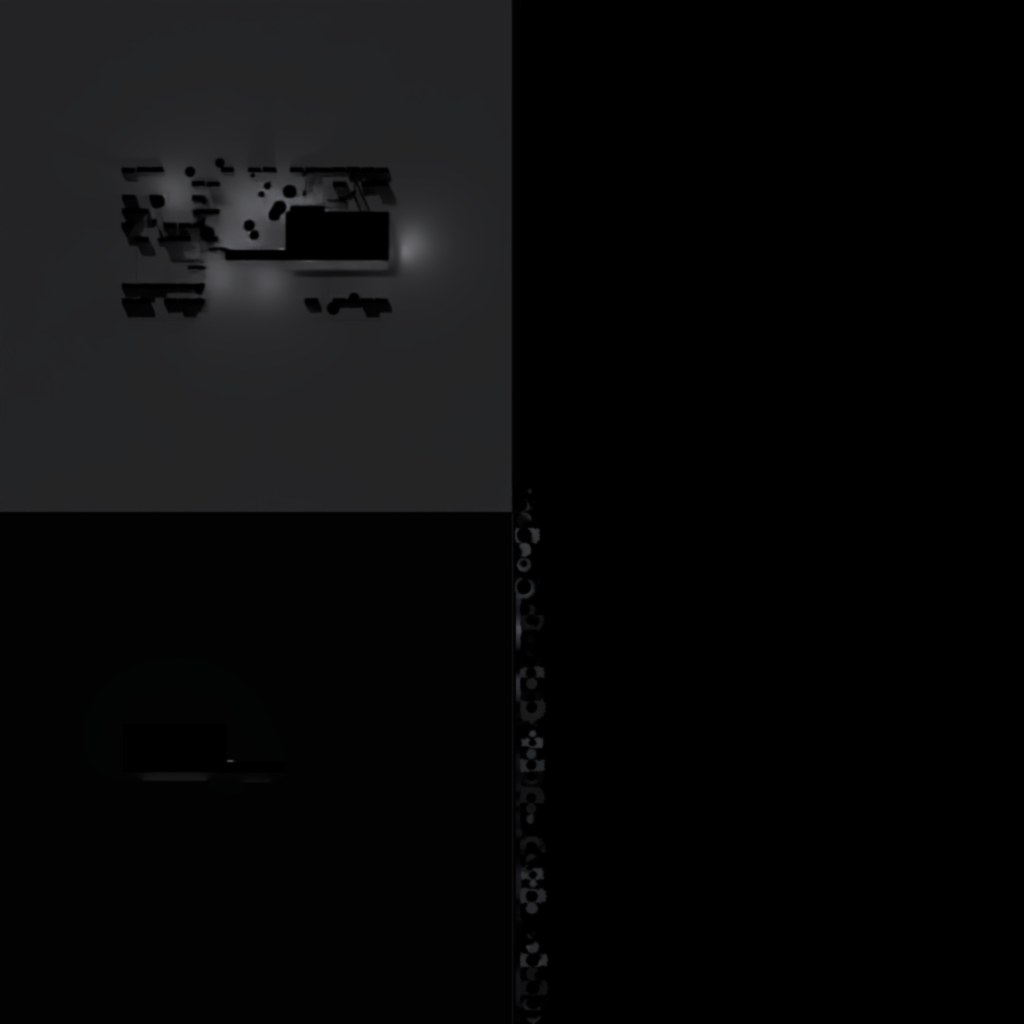
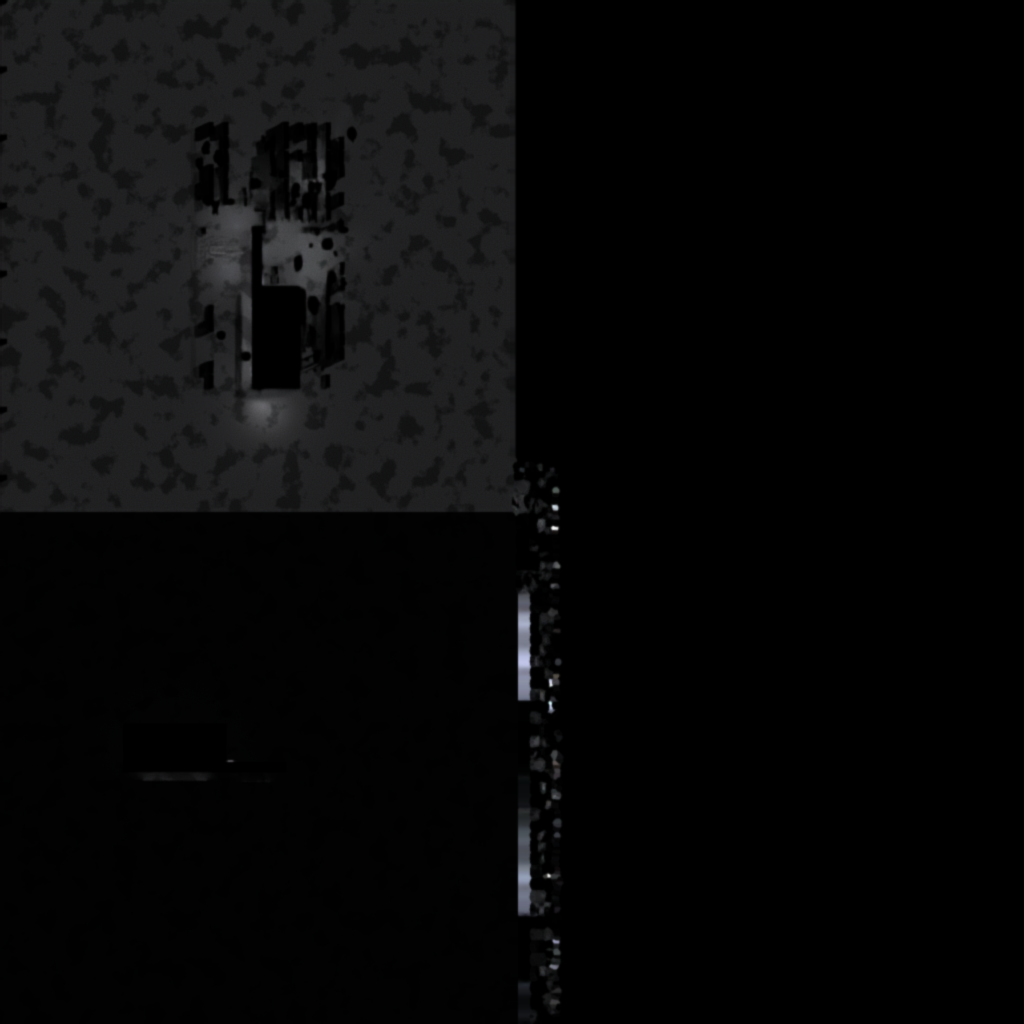
Detailed sets in progress (snapshot)
Claude-Session: https://claude.ai/code/session_015hMH19Q3ffBpefttWAikbH

Changed region(s): [[0.125, 0.0938, 0.4375, 0.4375], [0.5, 0.4688, 0.5625, 1.0]]

diff --git a/tools/blender/build_street_set.py b/tools/blender/build_street_set.py
@@ -330,7 +330,6 @@ def build_s1(coll, M):
     K.bench(f, 35.0, 5.5, 0, M)
     K.bike_rack(f, 39.5, 41.0, 5.5, M)
     K.bicycle(f, 39.55, 5.15, 90, M, lean=0)
-    K.tree(f, 44.0, 4.8, M, h=6.5)
     return g.finish(coll)
 
 
@@ -360,7 +359,7 @@ def stall(f, x, M, k):
     for s in range(7):
         mm = M["cloth_a"] if (s + k) % 2 == 0 else M["cloth_b"]
         f.box((x - 1.4 + s * 0.4 + 0.2, y - 0.1, 2.55), (0.4, 1.9, 0.03), mm, rot=(-14, 0, 0))
-        f.lathe((x - 1.4 + s * 0.4 + 0.2, y - 1.04, 2.2), [(0.0, 0.0), (0.19, 0.02), (0.2, 0.14), (0.0, 0.14)], mm, n=8, axis="y")
+        f.wallshape([(math.cos(t * math.pi / 6) * 0.2, -math.sin(t * math.pi / 6) * 0.14) for t in range(7)], -0.01, 0.01, mm, c=(x - 1.4 + s * 0.4 + 0.2, y - 1.02, 2.33))
     f.rod((x + 0.9, y - 0.75, 2.3), (x + 0.9, y - 0.75, 1.75), 0.006, M["iron"], 3)               # a hanging scale
     f.lathe((x + 0.9, y - 0.75, 1.55), [(0.0, 0.0), (0.09, 0.0), (0.09, 0.2), (0.0, 0.2)], M["white_band"], n=12)
     f.lathe((x + 0.9, y - 0.75, 1.48), [(0.0, 0.0), (0.16, 0.06), (0.0, 0.07)], M["chrome"], n=12)
@@ -547,7 +546,7 @@ def arches(g, M):
                 f.beam((c, 0.33, 2.6), (c + math.cos(a) * R, 0.33, 2.6 + math.sin(a) * R), 0.04, 0.03, M["frame_dark"])
             f.text(("CARS  ·  REPAIRS", "STORAGE  12")[0 if c < 80 else 1], (c, 0.3, 1.9), 0.18, M["white_paint"], kind="sign")
         else:
-            f.box((c, 0.45, 1.6), (3.4, 0.05, 3.2), M["lamp_glass_lit"])
+            f.box((c, 0.45, 1.6), (3.4, 0.05, 3.2), M["window_day"])
             for xx in (c - 1.1, c, c + 1.1):
                 f.box((xx, 0.4, 1.6), (0.06, 0.06, 3.2), M["frame_dark"])
             for zz in (0.9, 1.9):

diff --git a/tools/blender/build_epilogue_set.py b/tools/blender/build_epilogue_set.py
@@ -490,12 +490,17 @@ def angel(g, M, c, yaw=0.0, s=1.0):
 
 
 def yew(g, M, c, h):
+    """An old churchyard yew: a short thick trunk, a dense dark column of foliage, rounded, ragged."""
     x, y, z = c
-    g.cyl((x, y, z + 0.6), 0.25, 1.2, M["bark"], n=8)
-    for k in range(6):
-        t = k / 5
-        r = h * (0.38 - 0.22 * t) * rnd.uniform(0.85, 1.1)
-        K.ball(g, (x + rnd.uniform(-0.4, 0.4), y + rnd.uniform(-0.4, 0.4), z + h * (0.28 + 0.62 * t)), r, M["yew"], sub=1, squash=(1, 1, 0.9), jitter=0.3, seed=x + k)
+    g.cyl((x, y, z + 0.7), 0.32, 1.4, M["bark"], n=8, r2=0.24)
+    r0 = h * 0.3
+    g.cyl((x, y, z + h * 0.48), r0, h * 0.75, M["yew"], n=12, r2=r0 * 0.55)
+    g.cyl((x, y, z + h * 0.9), r0 * 0.6, h * 0.22, M["yew"], n=12, r2=r0 * 0.08)
+    for k in range(7):
+        t = k / 6
+        a = k * 2.4
+        rr = r0 * (1.0 - 0.55 * t)
+        K.ball(g, (x + math.cos(a) * rr * 0.75, y + math.sin(a) * rr * 0.75, z + h * (0.2 + 0.68 * t)), rr * 0.55, M["yew"], sub=1, squash=(1, 1, 1.3), jitter=0.3, seed=x + k)
 
 
 def dry_wall(g, M, pts, h, m):

diff --git a/tools/blender/city_kit.py b/tools/blender/city_kit.py
@@ -1075,7 +1075,8 @@ def awning(f, x0, x1, z, depth, M, text, striped=True):
     for k in range(n):
         m = (M["cloth_a"] if k % 2 == 0 else M["cloth_b"]) if striped else M["cloth_b"]
         f.box((x0 + (k + 0.5) * sw, -depth / 2, z - 0.35), (sw, math.hypot(depth, 0.7), 0.025), m, rot=(-ang, 0, 0))
-        f.lathe((x0 + (k + 0.5) * sw, -depth - 0.01, z - 0.95), [(0.0, 0.0), (sw * 0.48, 0.02), (sw * 0.5, 0.18), (0.0, 0.18)], m, n=8, axis="y")
+        f.wallshape([(math.cos(t * math.pi / 6) * sw * 0.5, -math.sin(t * math.pi / 6) * sw * 0.32) for t in range(7)], -depth - 0.02, -depth, m,
+                    c=(x0 + (k + 0.5) * sw, 0, z - 0.95))                                        # the scallops
     f.box(((x0 + x1) / 2, -depth - 0.01, z - 0.82), (x1 - x0, 0.02, 0.26), M["cloth_b"])
     if text:
         f.text(text, ((x0 + x1) / 2, -depth - 0.025, z - 0.82), 0.16, M["white_paint"], kind="serif")
